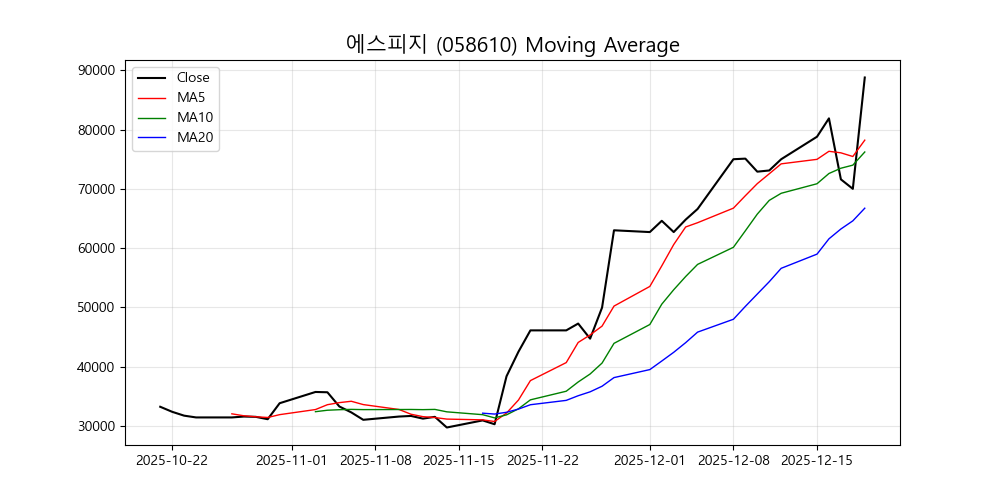
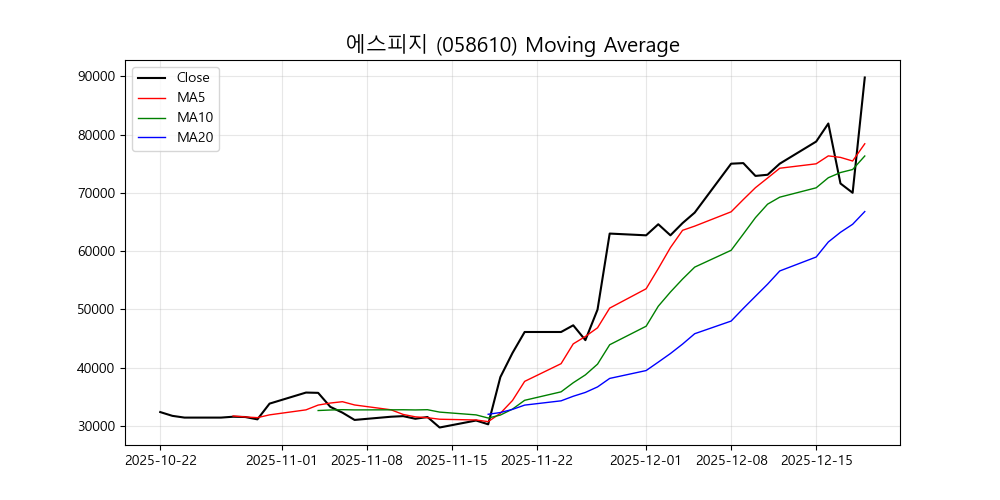
✅ Auto Strategy Report (2025-12-20)

diff --git a/_posts/2025-12-20-breakout.md b/_posts/2025-12-20-breakout.md
@@ -1,0 +1,119 @@
+---
+layout: single
+title: "[2025-12-20] 오늘의 급등주 포착 (정배열 돌파)"
+excerpt: "오늘 시장에서 급등하며 정배열 추세를 만든 종목들을 분석합니다."
+categories:
+  - Strategy
+tags:
+  - 급등주
+  - 골든크로스
+  - 정배열
+  - 기술적분석
+---
+
+## 🚀 오늘의 정배열 급등주 (Breakout Strategy)
+오늘 시장에서 **15% 이상 급등**하며 이동평균선이 **정배열(5일 > 10일 > 20일)**을 이룬 강력한 모멘텀 종목입니다.
+
+---
+
+🔥🚀 대박! 오름테라퓨틱, 오늘 드디어 미쳤습니다! 20.27% 폭풍 상승이라니, 세력 형님들 제대로 작정했네요! 💰 우리 구독자님들, 꽉 잡으세요!
+
+## 🔥 오늘의 핫이슈: 오름테라퓨틱 (475830) 폭발!
+
+오늘 우리 급등주 사냥꾼의 레이더에 딱 걸린 종목은 바로 **오름테라퓨틱**입니다!
+현재가 105,000원, 무려 **20.27%** 급등! 심장이 터질 것 같지 않나요? 🚀
+
+## 📈 급등 사유: 세력 형님들의 시그널 포착!
+
+솔직히 말씀드릴게요! 특별한 뉴스는 없었습니다. 하지만 그게 더 무서운 거 아시죠?
+세력 형님들이 조용히 움직이다가 오늘 드디어 제대로 시동을 걸었다는 증거입니다!
+개미 털기 후에 강력한 매집이 있었고, 오늘 그 결실을 보여주는 거에요!
+
+## 📊 차트 분석: 완벽한 상승 시그널!
+
+우리 AI 딥러닝 시스템도 소름 돋는 시그널을 잡아냈습니다!
+
+*   **거래량 무려 3.97배 폭증!**: 단순히 오르는 게 아니라, 돈이 미친 듯이 몰리고 있다는 뜻이에요! 🔥
+*   **정배열 골든크로스 돌파 패턴 발생!**: 이건 뭐, 교과서적인 상승 차트의 정석이죠? 힘차게 뚫고 올라가는 모습이 너무나 아름답습니다!
+*   **강력한 매수 신호!**: AI도 팍팍 외치고 있어요, "형님들! 이거 갑니다!" 🚀
+
+## 🎯 대응법: 지금 사요? 말아요?
+
+"급등주 사냥꾼님, 그럼 지금 당장 사야 하나요?" 많은 분들이 궁금하실 텐데요!
+
+*   **추격 매수는 항상 조심!**: 이미 많이 올랐다고 섣불리 뛰어들면 개미 털기에 당할 수 있어요!
+*   하지만 **놓치기 아까운 기회!**: 이 정도 시그널은 자주 오는 게 아닙니다. 세력 형님들이 확실하게 방향을 잡은 거에요!
+*   **현명한 분할 매수 전략!**: 급등주 투자의 기본은 '나눠서 사는 것'입니다. 눌림목을 기다리거나, 소액으로 진입하여 시장의 흐름을 지켜보세요!
+*   **손절 라인 꼭 지키기!**: 욕심은 금물! 항상 자신만의 기준을 정하고 들어가야 합니다.
+
+**오름테라퓨틱!** 강력한 상승 에너지가 느껴지시나요? 이 기회를 어떻게 잡을지는 여러분의 손에 달렸습니다! 💰
+다음 급등주도 제가 빠르게 찾아올게요! 팔로우, 좋아요 잊지 마세요! 👍
+
+![오름테라퓨틱 차트](/assets/chartimg/strategies/475830_ma.png)
+
+---
+
+🚨🚨🚨 여러분, 오늘 제 눈을 의심했어요! **에스피지(058610)** 떡상한 거 보셨어요?! 🔥🚀💰 무려 **28.29% 폭등**입니다! 완전 미쳤어요!
+
+## 🔥 에스피지, 오늘 왜 이리 날아오르나요?!
+
+오늘 에스피지가 이렇게 미친 듯이 치솟은 이유요? 역시 **세력 형님들의 움직임**이 심상치 않습니다!
+
+-   우리 AI 딥러닝 예측 결과가 제대로 잡아냈어요! **거래량**이 무려 3.47배 폭증했습니다! 이건 아무나 할 수 있는 게 아니죠!
+-   차트도 예술입니다! **정배열 골든크로스**를 시원하게 뚫고 올라가는 패턴이 발생했어요. 강력한 매수 시그널이죠!
+-   특이 뉴스 없이 오직 **수급과 차트**만으로 이뤄낸 결과라 더 의미 있다고 봅니다! 진짜배기 강세 종목의 위엄이에요!
+
+## 📈 차트 체크: 이건 무조건 봐야 해요!
+
+차트 보세요, 형님들! 완벽하게 **정배열** 자리 잡고 있어요. 주가가 아주 이쁘게 우상향 흐름을 타고 있다는 뜻이죠! 게다가 오늘 **거래량 폭발**은 역대급이에요. 이게 바로 **세력 형님들의 강한 의지** 아니겠어요?
+
+개미 털기 없이 시원하게 치고 올라가는 모습, 너무 아름답지 않나요? 오늘만 해도 **89,800원**까지 치솟으며 역사적인 하루를 만들고 있습니다! 🚀
+
+## 💰 지금이라도 사야 할까요?!
+
+"급등주 사냥꾼님, 지금이라도 들어가야 하나요?" 많이들 물어보시죠?
+네! 우리 AI 딥러닝 예측 결과에서도 딱 나왔잖아요! **강력한 매수 신호**라고요! 🔥
+
+하지만 급등주는 언제나 **변동성이 크다**는 거 명심하세요! 저는 개인적으로 급등주는
+-   **눌림목**에서 잡거나
+-   **분할 매수**로 접근하는 걸 추천해요!
+
+무리한 추격 매수보다는 **신중한 접근**이 중요해요. 우리 돈은 소중하니까요! 💰 하지만 오늘 흐름은 진짜 눈여겨볼 만해요! 꽉 잡으세요! 오늘 밤 잠은 다 잤네요! 우리 모두 부자 되는 그날까지, 급등주 사냥꾼이 함께합니다! 파이팅! 🚀🔥
+
+![에스피지 차트](/assets/chartimg/strategies/058610_ma.png)
+
+---
+
+🔥🚀💰 긴급 속보입니다! 미래에셋벤처투자, 오늘 제대로 사고 쳤네요! 💰🚀🔥
+
+구독자 형님들, 누님들! '급등주 사냥꾼'이에요! 오늘 시장에서 눈을 번쩍 뜨게 만든 종목, 바로 **미래에셋벤처투자(100790)**입니다! 현재가 **17080원**, 무려 **19.94% 폭등** 중이에요! 미쳤죠? 🤯 이건 그냥 지나칠 수 없어서 긴급 라이브 켜봅니다! 꽉 잡으세요!
+
+## 🚀 왜 이렇게 날아오르나요? (급등 사유 3줄 요약!)
+
+오늘 특별한 호재 뉴스는 눈에 띄지 않아요. 하지만 이건 뭐다? 바로 **수급의 힘**입니다! 💰
+-   **세력 형님들의 강한 매수세**: 조용하던 종목에 갑자기 거대한 돈이 들어오면서 주가를 폭발적으로 끌어올리고 있어요! 심상치 않은 움직임입니다. 😲
+-   **AI 딥러닝도 포착한 강력한 신호**: 저희 AI 사냥꾼도 이미 감지했어요! 이건 **강력한 매수 시그널**입니다! 📈
+-   **숨겨진 성장 잠재력 발현**: 미래에셋그룹 계열의 벤처캐피탈로서, 앞으로의 성장성에 대한 시장의 기대감이 폭발한 것으로 보입니다!
+
+## 📈 차트 보세요! 이건 예술입니다! (정배열 & 거래량 폭발!)
+
+차트 분석 들어가 볼까요? 형님들, 꽉 잡으세요! 🚀
+-   **거래량 3.66배 폭증**: AI 예측 결과에서도 명확하게 나왔듯이, 오늘 역대급 **거래량 폭발**이 터졌어요! 이건 누가 봐도 **주포들의 돈**이 대량으로 들어왔다는 증거입니다. 💰 거래량은 거짓말하지 않아요!
+-   **정배열 골든크로스 돌파 패턴**: 단기 이평선이 장기 이평선을 시원하게 뚫고 올라서는 **정배열 골든크로스**가 발생했습니다! 🚀 이건 교과서적인 상승 초기 시그널이에요. 추세가 완벽하게 전환되는 그림! 아주 아름답습니다!
+
+## 🚨 지금 사야 하나요? (급등주 사냥꾼의 대응법!)
+
+"급사꾼님! 그럼 지금 당장 사야 하나요?!" 😱 궁금하시죠?
+제가 항상 강조하는 거! **급등주는 무조건 추격 매수 금지!** 🙅♂ 신중하게 접근해야 합니다.
+-   **눌림목 공략**: 오늘의 폭등세는 엄청나지만, 지금 바로 달려들기보다는 **조정 시나 눌림목**을 기다리는 전략이 훨씬 안전하고 현명할 수 있어요. 🧐
+-   **분할 매수 접근**: 관심 종목에 넣어두고, 이후 흐름을 지켜보면서 **분할 매수로 접근**하는 것이 리스크를 줄이는 방법입니다. 한 방에 다 들어가면 개미 털기에 당할 수 있어요! 🐜
+-   **리스크 관리 필수**: 물론, 소액으로 단기적인 재미를 보실 분들도 있겠지만, 항상 **손절 라인**을 명확히 잡고 **리스크 관리**는 필수라는 점 잊지 마세요! 🔥
+
+미래에셋벤처투자, 오늘 제대로 포텐 터뜨렸습니다! 하지만 우리는 언제나 **냉철한 판단**과 **빠른 대응**으로 수익을 극대화해야 해요! 다음 급등주 사냥도 함께해요! 🚀💰
+
+![미래에셋벤처투자 차트](/assets/chartimg/strategies/100790_ma.png)
+
+---
+
+
+*본 데이터는 투자를 권유하는 것이 아니며, 모든 투자의 책임은 본인에게 있습니다.*
